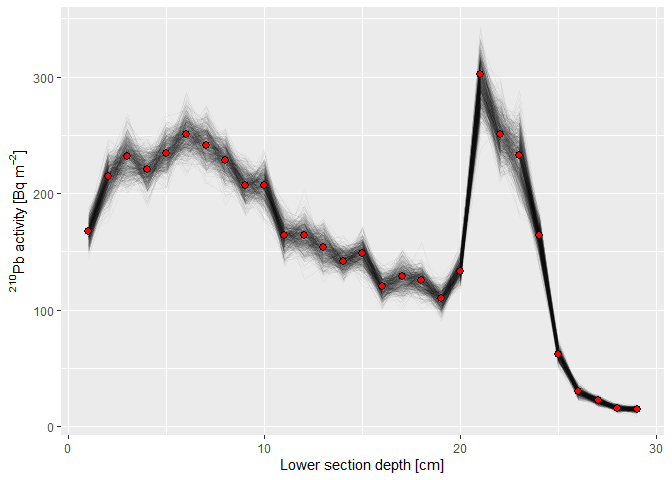
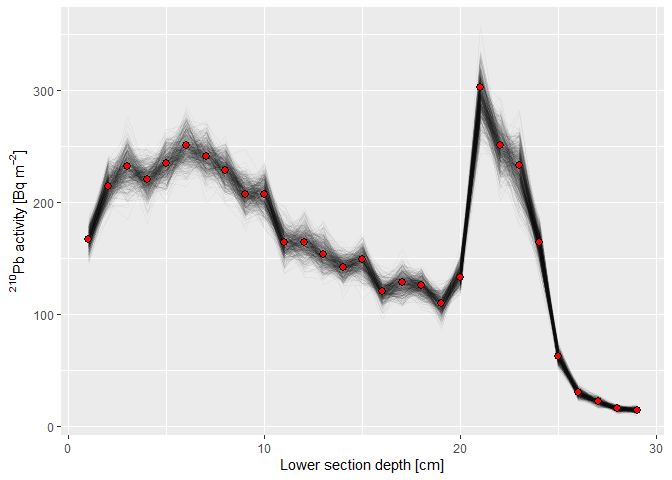
Added a seed to the model fitting in the readme.

diff --git a/README.md b/README.md
@@ -88,7 +88,8 @@ d_fit <-
     d_model, 
     chains = 1,
     iter = 1500,
-    warmup = 500)
+    warmup = 500,
+    seed = 123)
 #> 
 #> SAMPLING FOR MODEL 'plumstan_model' NOW (CHAIN 1).
 #> Chain 1: Rejecting initial value:
@@ -113,9 +114,9 @@ d_fit <-
 #> Chain 1: Iteration: 1400 / 1500 [ 93%]  (Sampling)
 #> Chain 1: Iteration: 1500 / 1500 [100%]  (Sampling)
 #> Chain 1: 
-#> Chain 1:  Elapsed Time: 2.087 seconds (Warm-up)
-#> Chain 1:                1.296 seconds (Sampling)
-#> Chain 1:                3.383 seconds (Total)
+#> Chain 1:  Elapsed Time: 2.518 seconds (Warm-up)
+#> Chain 1:                1.388 seconds (Sampling)
+#> Chain 1:                3.906 seconds (Total)
 #> Chain 1:
 ```
 
@@ -135,26 +136,26 @@ d_extracted_fit <-
 ``` r
 head(d_extracted_fit)
 #>   iter data_type depth_profile depth_lower depth_upper      age
-#> 1    1     pb210      measured          29          28 252.6681
-#> 2    2     pb210      measured          29          28 180.4133
-#> 3    3     pb210      measured          29          28 221.9439
-#> 4    4     pb210      measured          29          28 211.1097
-#> 5    5     pb210      measured          29          28 247.1448
-#> 6    6     pb210      measured          29          28 191.5128
+#> 1    1     pb210      measured          29          28 195.2209
+#> 2    2     pb210      measured          29          28 204.5243
+#> 3    3     pb210      measured          29          28 225.0797
+#> 4    4     pb210      measured          29          28 194.0709
+#> 5    5     pb210      measured          29          28 203.0467
+#> 6    6     pb210      measured          29          28 191.2571
 #>   depth_accumulation_rate depth_accumulation_rate_alpha pb210_tot
-#> 1                      NA                            NA  13.10463
-#> 2                      NA                            NA  14.75933
-#> 3                      NA                            NA  12.50621
-#> 4                      NA                            NA  14.22184
-#> 5                      NA                            NA  15.28399
-#> 6                      NA                            NA  15.32130
+#> 1                      NA                            NA  14.20569
+#> 2                      NA                            NA  13.25301
+#> 3                      NA                            NA  13.91363
+#> 4                      NA                            NA  15.45908
+#> 5                      NA                            NA  16.10459
+#> 6                      NA                            NA  14.54460
 #>   pb210_supported     omega
-#> 1      0.04174404 0.2933825
-#> 2      0.03609904 0.4016763
-#> 3      0.02699996 0.3228094
-#> 4      0.03502281 0.3250323
-#> 5      0.04125792 0.3219240
-#> 6      0.03867965 0.3418247
+#> 1      0.03834938 0.3076514
+#> 2      0.03495767 0.3321187
+#> 3      0.03514617 0.3319858
+#> 4      0.03960609 0.3177757
+#> 5      0.03571352 0.3012072
+#> 6      0.03428386 0.3115710
 ```
 
 With `d_extracted_fit`, it is easy to plot the modeled age-depth profile, e.g. using functions of `ggplot2`: Here, I plotted the estimated sediment ages versus lower section depths according to the first 500 draws of the MCMC algorithm.
